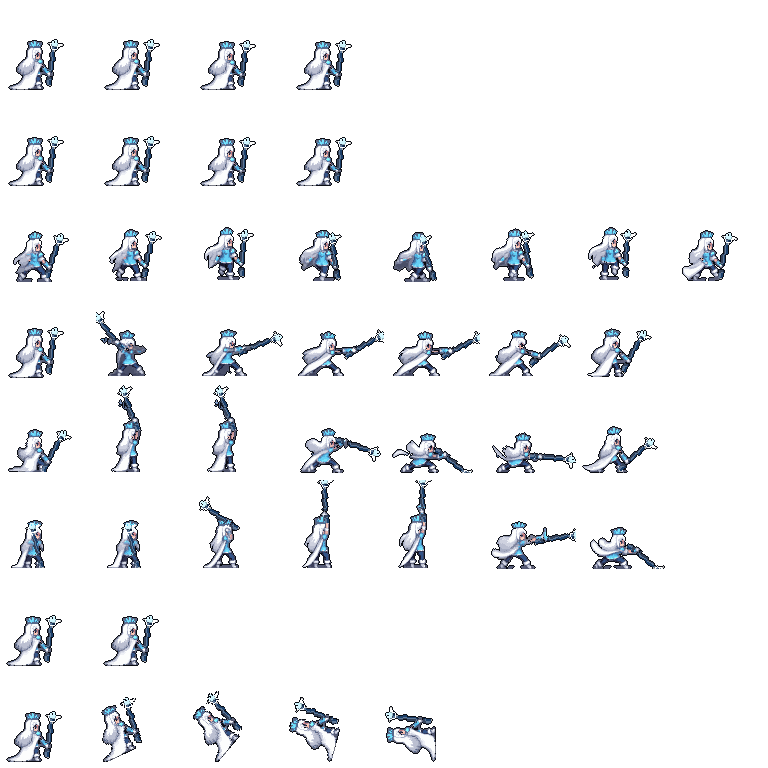
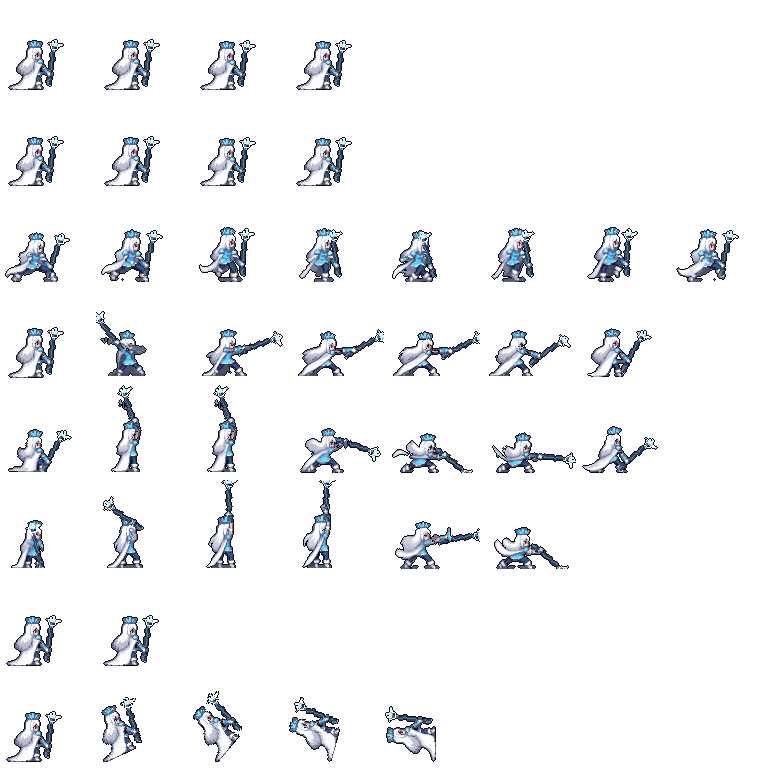
마법사 계열 3차: 걷기만 과장 관절로 재생성(usage 9, 누계 88/90), 시전 시작 정지 프레임 정리, 시트 재조립

diff --git a/src/sprites/meta.js b/src/sprites/meta.js
@@ -3,7 +3,7 @@
 const SHEET_META = {
   arbalest: {"w":96,"h":96,"foot":[42,86],"anims":{"idle":{"row":0,"frames":4,"fps":6,"loop":true},"guard":{"row":1,"frames":4,"fps":8,"loop":true},"walk":{"row":2,"frames":8,"fps":10,"loop":true},"atkA":{"row":3,"frames":6,"fps":14,"loop":false,"hit":3},"atkB":{"row":4,"frames":6,"fps":14,"loop":false,"hit":3},"cast":{"row":5,"frames":2,"fps":10,"loop":true,"key":"pull","val":[0,4.5]},"castUp":{"row":6,"frames":2,"fps":10,"loop":true,"key":"pull","val":[6,12]},"hurt":{"row":7,"frames":2,"fps":12,"loop":false},"death":{"row":8,"frames":5,"fps":8,"loop":false}},"pts":{"idle":[[67,60,41,40],[67,61,41,41],[67,61,41,41],[67,60,41,40]],"guard":[[67,61,41,41],[67,62,41,42],[67,62,41,42],[67,61,41,41]],"walk":[[68,66,42,39],[68,66,42,39],[68,65,42,38],[68,66,42,39],[68,67,43,39],[68,66,42,39],[68,65,42,38],[68,66,42,39]],"atkA":[[67,60,41,40],[68,60,42,40],[65,55,36,40],[63,55,34,40],[64,55,35,40],[68,60,42,40]],"atkB":[[67,60,41,40],[68,60,42,40],[65,55,36,40],[63,55,34,40],[64,55,35,40],[68,60,42,40]],"cast":[[67,60,41,40],[68,60,42,40]],"castUp":[[68,60,42,40],[65,55,36,40]],"hurt":[[65,60,39,40],[66,60,40,40]],"death":[[66,60,40,40],[54,52,33,42],[46,70,28,41],[40,68,16,47],[39,72,13,48]]},"v":"38ca4e71"},
   arcaneArcher: {"w":96,"h":96,"foot":[42,86],"anims":{"idle":{"row":0,"frames":4,"fps":6,"loop":true},"guard":{"row":1,"frames":4,"fps":8,"loop":true},"walk":{"row":2,"frames":8,"fps":10,"loop":true},"atkA":{"row":3,"frames":8,"fps":14,"loop":false,"hit":5},"atkB":{"row":4,"frames":8,"fps":14,"loop":false,"hit":5},"cast":{"row":5,"frames":4,"fps":10,"loop":true,"key":"pull","val":[0,4.5,7.5,12]},"castUp":{"row":6,"frames":2,"fps":10,"loop":true,"key":"pull","val":[6,12]},"hurt":{"row":7,"frames":2,"fps":12,"loop":false},"death":{"row":8,"frames":5,"fps":8,"loop":false}},"pts":{"idle":[[62,57,53,37],[62,58,53,38],[62,58,53,38],[62,57,53,37]],"guard":[[62,58,53,38],[62,59,53,39],[62,59,53,39],[62,58,53,38]],"walk":[[60,67,41,40],[61,64,41,39],[61,63,41,38],[62,66,40,38],[63,67,41,40],[62,66,41,39],[61,66,41,38],[62,66,40,38]],"atkA":[[62,57,53,37],[62,57,53,37],[58,57,50,37],[57,61,47,37],[57,61,47,37],[60,54,37,40],[60,54,37,40],[62,57,53,37]],"atkB":[[58,60,38,32],[58,60,38,32],[57,59,35,33],[56,62,33,33],[56,58,32,33],[57,58,34,31],[58,61,37,34],[58,61,37,34]],"cast":[[62,57,53,37],[62,57,53,37],[58,57,50,37],[57,61,47,37]],"castUp":[[57,59,35,33],[56,58,32,33]],"hurt":[[60,57,51,37],[61,57,52,37]],"death":[[61,57,52,37],[50,61,31,35],[46,72,14,42],[40,67,12,50],[39,73,10,53]]},"v":"ba96b28f"},
-  archmage: {"w":96,"h":96,"foot":[33,88],"anims":{"idle":{"row":0,"frames":4,"fps":4,"loop":true},"guard":{"row":1,"frames":4,"fps":4,"loop":true},"walk":{"row":2,"frames":8,"fps":10,"loop":true},"atkA":{"row":3,"frames":7,"fps":16,"loop":false,"hit":3},"atkB":{"row":4,"frames":7,"fps":16,"loop":false,"hit":4},"cast":{"row":5,"frames":7,"fps":10,"loop":false,"key":"bowA","val":[-0.2,-0.2,-0.7,-1.4,-1.4,0.7,1.2]},"hurt":{"row":6,"frames":2,"fps":12,"loop":false},"death":{"row":7,"frames":5,"fps":8,"loop":false}},"pts":{"idle":[[60,38,34,42],[60,38,34,42],[60,39,34,43],[60,39,34,43]],"guard":[[60,39,34,43],[60,39,34,43],[60,40,34,44],[60,40,34,44]],"walk":[[66,41,34,44],[62,38,39,42],[57,36,37,39],[47,39,44,39],[41,41,43,39],[48,38,45,38],[56,36,34,39],[62,39,31,42]],"atkA":[[60,38,34,42],[0,30,18,44],[94,49,33,43],[95,61,39,46],[95,64,39,46],[95,64,37,45],[76,40,35,43]],"atkB":[[69,46,32,46],[58,3,44,23],[12,10,30,32],[95,66,38,45],[94,92,50,56],[91,95,48,54],[83,55,36,46]],"cast":[[42,40,42,39],[41,39,41,38],[27,11,31,10],[60,3,44,23],[43,0,41,0],[95,52,37,44],[93,93,52,55]],"hurt":[[58,38,32,42],[59,38,33,42]],"death":[[58,38,32,42],[58,38,16,42],[58,38,19,26],[58,38,21,40],[58,38,31,45]]},"v":"274ff0f2"},
+  archmage: {"w":96,"h":96,"foot":[33,88],"anims":{"idle":{"row":0,"frames":4,"fps":4,"loop":true},"guard":{"row":1,"frames":4,"fps":4,"loop":true},"walk":{"row":2,"frames":8,"fps":10,"loop":true},"atkA":{"row":3,"frames":7,"fps":16,"loop":false,"hit":3},"atkB":{"row":4,"frames":7,"fps":16,"loop":false,"hit":4},"cast":{"row":5,"frames":7,"fps":10,"loop":false,"key":"bowA","val":[-0.2,-0.2,-0.7,-1.4,-1.4,0.7,1.2]},"hurt":{"row":6,"frames":2,"fps":12,"loop":false},"death":{"row":7,"frames":5,"fps":8,"loop":false}},"pts":{"idle":[[60,38,34,42],[60,38,34,42],[60,39,34,43],[60,39,34,43]],"guard":[[60,39,34,43],[60,39,34,43],[60,40,34,44],[60,40,34,44]],"walk":[[67,41,33,44],[63,39,57,42],[58,36,38,40],[48,37,44,38],[42,38,43,36],[50,36,46,37],[57,37,33,40],[63,39,33,42]],"atkA":[[60,38,34,42],[0,30,18,44],[94,49,33,43],[95,61,39,46],[95,64,39,46],[95,64,37,45],[76,40,35,43]],"atkB":[[69,46,32,46],[58,3,44,23],[12,10,30,32],[95,66,38,45],[94,92,50,56],[91,95,48,54],[83,55,36,46]],"cast":[[42,40,42,39],[41,39,41,38],[27,11,31,10],[60,3,44,23],[43,0,41,0],[95,52,37,44],[93,93,52,55]],"hurt":[[58,38,32,42],[59,38,33,42]],"death":[[58,38,32,42],[58,38,16,42],[58,38,19,26],[58,38,21,40],[58,38,31,45]]},"v":"6f0abe7a"},
   archon: {"w":96,"h":96,"foot":[48,91],"anims":{"idle":{"row":0,"frames":4,"fps":6,"loop":true},"guard":{"row":1,"frames":4,"fps":8,"loop":true},"walk":{"row":2,"frames":6,"fps":10,"loop":true},"atkA":{"row":3,"frames":4,"fps":14,"loop":false,"hit":2},"atkB":{"row":4,"frames":4,"fps":14,"loop":false,"hit":2},"cast":{"row":5,"frames":6,"fps":8,"loop":true,"key":"wa","val":[-2.618,-1.745,-1.047,-0.436,0.175,0.698]},"hurt":{"row":6,"frames":2,"fps":12,"loop":false},"death":{"row":7,"frames":5,"fps":8,"loop":false}},"pts":{"idle":[[57,82,47,49],[57,82,47,48],[57,81,47,48],[57,81,47,49]],"guard":[[57,83,47,50],[57,83,47,49],[57,82,47,49],[57,82,47,50]],"walk":[[55,81,49,48],[55,82,49,49],[54,82,49,49],[53,81,47,48],[51,81,47,48],[51,82,47,48]],"atkA":[[57,81,47,49],[40,67,33,42],[62,77,49,49],[55,82,47,50]],"atkB":[[57,81,47,49],[34,75,45,49],[62,77,49,49],[62,77,49,49]],"cast":[[34,75,45,49],[40,67,33,42],[56,67,68,44],[62,77,49,49],[62,77,49,49],[55,82,47,50]],"hurt":[[55,82,45,49],[56,82,46,49]],"death":[[48,86,38,82],[48,86,38,82],[48,86,38,82],[48,86,38,82],[48,86,38,82]]},"v":"58303aa0"},
   blademaster: {"w":64,"h":64,"foot":[28,59],"anims":{"idle":{"row":0,"frames":2,"fps":3,"loop":true},"walk":{"row":1,"frames":4,"fps":8,"loop":true},"atkA":{"row":2,"frames":7,"fps":12,"loop":false,"hit":3},"cast":{"row":3,"frames":6,"fps":8,"loop":true},"hurt":{"row":4,"frames":2,"fps":12,"loop":false}},"pts":{"idle":[[37,35,28,14],[37,35,28,15]],"walk":[[37,35,28,14],[37,35,28,15],[37,35,28,14],[37,35,28,16]],"atkA":[[37,35,28,14],[37,35,35,13],[37,35,38,7],[37,35,33,12],[37,35,33,12],[37,35,28,15],[37,35,28,14]],"cast":[[37,35,28,14],[37,35,30,11],[37,35,35,5],[37,35,35,5],[37,35,29,14],[37,35,28,14]],"hurt":[[37,35,26,14],[37,35,27,14]]},"v":"e2fab3b9"},
   cavalier: {"w":128,"h":128,"foot":[36,112],"anims":{"idle":{"row":0,"frames":4,"fps":6,"loop":true},"guard":{"row":1,"frames":4,"fps":8,"loop":true},"walk":{"row":2,"frames":8,"fps":10,"loop":true},"atkA":{"row":3,"frames":7,"fps":14,"loop":false,"hit":2},"atkB":{"row":4,"frames":7,"fps":14,"loop":false,"hit":2},"cast":{"row":5,"frames":9,"fps":10,"loop":true,"key":"wa","val":[-1.57,-1.2,-0.8,-0.4,0,0.4,0.8,1.2,1.57],"wrap":false},"hurt":{"row":6,"frames":2,"fps":12,"loop":false},"death":{"row":7,"frames":5,"fps":8,"loop":false}},"pts":{"idle":[[51,92,46,60],[51,93,46,61],[51,93,46,61],[51,92,46,60]],"guard":[[76,91,34,64],[76,92,34,65],[76,92,34,65],[76,91,34,64]],"walk":[[51,92,46,60],[51,91,46,59],[51,90,46,58],[51,91,46,59],[51,92,46,60],[51,91,46,59],[51,90,46,58],[51,91,46,59]],"atkA":[[76,91,34,64],[71,93,33,66],[76,92,41,64],[96,91,50,65],[92,91,46,64],[86,91,41,62],[82,91,37,62]],"atkB":[[44,76,35,62],[44,104,35,61],[59,79,33,55],[69,73,68,60],[78,105,50,69],[89,95,44,64],[82,91,37,62]],"cast":[[69,73,68,60],[69,73,68,60],[71,93,33,66],[71,93,33,66],[96,91,50,65],[78,105,50,69],[78,105,50,69],[78,105,50,69],[78,105,50,69]],"hurt":[[47,89,36,56],[50,91,41,57]],"death":[[58,67,57,59],[72,66,60,63],[84,82,63,72],[89,100,64,83],[85,98,44,81]]},"v":"a9324710"},
@@ -14,7 +14,7 @@ const SHEET_META = {
   dragoon: {"w":128,"h":128,"foot":[36,112],"anims":{"idle":{"row":0,"frames":4,"fps":6,"loop":true},"guard":{"row":1,"frames":4,"fps":8,"loop":true},"walk":{"row":2,"frames":8,"fps":10,"loop":true},"atkA":{"row":3,"frames":7,"fps":14,"loop":false,"hit":2},"atkB":{"row":4,"frames":6,"fps":14,"loop":false,"hit":2},"cast":{"row":5,"frames":9,"fps":10,"loop":true,"key":"wa","val":[-1.57,-1.2,-0.8,-0.4,0,0.4,0.8,1.2,1.57],"wrap":false},"hurt":{"row":6,"frames":2,"fps":12,"loop":false},"death":{"row":7,"frames":5,"fps":8,"loop":false}},"pts":{"idle":[[62,94,53,57],[62,94,53,58],[62,94,53,58],[62,94,53,57]],"guard":[[84,87,32,70],[84,88,32,71],[84,88,32,71],[84,87,32,70]],"walk":[[62,94,53,57],[53,60,51,56],[49,95,31,57],[50,64,47,57],[49,96,46,58],[50,63,48,57],[52,60,50,56],[53,59,51,56]],"atkA":[[84,87,32,70],[80,87,29,73],[93,85,36,70],[103,84,45,72],[99,84,40,71],[93,86,36,69],[90,84,33,69]],"atkB":[[68,58,66,56],[68,49,66,47],[70,104,47,56],[72,105,46,76],[95,92,38,71],[91,86,34,69]],"cast":[[68,49,66,47],[68,49,66,47],[68,49,66,47],[68,58,66,56],[95,92,38,71],[95,92,38,71],[72,105,46,76],[70,104,47,56],[70,104,47,56]],"hurt":[[58,88,42,52],[61,91,48,54]],"death":[[67,60,63,58],[80,68,49,64],[92,86,53,68],[93,103,42,68],[78,94,48,70]]},"v":"34231d57"},
   electromancer: {"w":96,"h":96,"foot":[33,88],"anims":{"idle":{"row":0,"frames":4,"fps":4,"loop":true},"guard":{"row":1,"frames":4,"fps":4,"loop":true},"walk":{"row":2,"frames":8,"fps":10,"loop":true},"atkA":{"row":3,"frames":7,"fps":16,"loop":false,"hit":3},"atkB":{"row":4,"frames":7,"fps":16,"loop":false,"hit":4},"cast":{"row":5,"frames":7,"fps":10,"loop":false,"key":"bowA","val":[-0.2,-0.2,-0.7,-1.4,-1.4,0.7,1.2]},"hurt":{"row":6,"frames":2,"fps":12,"loop":false},"death":{"row":7,"frames":5,"fps":8,"loop":false}},"pts":{"idle":[[49,40,34,40],[49,40,34,40],[49,41,34,41],[49,41,34,41]],"guard":[[49,41,34,41],[49,41,34,41],[49,42,34,42],[49,42,34,42]],"walk":[[62,44,35,40],[58,42,39,38],[54,40,37,37],[45,42,31,38],[39,43,31,39],[46,42,35,38],[53,40,31,36],[59,42,28,44]],"atkA":[[49,40,34,40],[0,32,13,42],[86,49,33,41],[95,77,38,43],[95,69,39,46],[91,71,34,42],[69,45,32,40]],"atkB":[[64,50,30,45],[36,4,36,3],[11,9,19,9],[78,79,37,46],[88,88,49,50],[86,92,49,50],[79,59,35,43]],"cast":[[39,44,30,40],[37,43,30,39],[26,12,31,11],[38,0,38,0],[40,0,38,0],[95,54,35,42],[86,91,48,49]],"hurt":[[47,40,32,40],[48,40,33,40]],"death":[[47,40,32,40],[47,40,28,35],[47,40,28,56],[47,40,22,56],[47,40,26,61]]},"v":"c893991a"},
   fighter: {"w":64,"h":64,"foot":[32,58],"anims":{"idle":{"row":0,"frames":4,"fps":6,"loop":true},"guard":{"row":1,"frames":4,"fps":8,"loop":true},"walk":{"row":2,"frames":6,"fps":10,"loop":true},"dash":{"row":3,"frames":2,"fps":12,"loop":true},"atkA":{"row":4,"frames":4,"fps":14,"loop":false,"hit":1},"atkB":{"row":5,"frames":4,"fps":14,"loop":false,"hit":1},"charge":{"row":6,"frames":4,"fps":10,"loop":true},"release":{"row":7,"frames":3,"fps":12,"loop":false,"hit":1},"hurt":{"row":8,"frames":2,"fps":12,"loop":false},"death":{"row":9,"frames":5,"fps":8,"loop":false},"sit":{"row":10,"frames":2,"fps":2,"loop":true}},"pts":{"idle":[[41,35,35,21],[39,34,33,18],[40,34,37,18],[41,44,38,19]],"guard":[[45,40,37,22],[45,41,37,23],[45,41,37,23],[45,40,37,22]],"walk":[[46,40,36,22],[46,43,40,20],[44,45,38,21],[43,28,37,22],[43,45,35,22],[45,42,37,20]],"dash":[[47,47,40,21],[40,28,35,22]],"atkA":[[49,42,41,24],[50,39,37,21],[51,40,36,22],[45,40,37,22]],"atkB":[[46,40,36,23],[53,41,43,23],[51,41,40,22],[51,42,42,24]],"charge":[[45,43,35,21],[44,46,36,21],[44,45,39,21],[44,46,38,23]],"release":[[49,42,41,24],[62,45,51,27],[53,41,43,23]],"hurt":[[46,50,35,22],[47,30,40,24]],"death":[[43,48,33,21],[45,33,43,26],[46,34,39,28],[49,51,42,34],[49,45,45,39]],"sit":[[38,33,31,27],[38,34,31,28]]},"v":"f7aa33a6"},
-  frostlord: {"w":96,"h":96,"foot":[33,89],"anims":{"idle":{"row":0,"frames":4,"fps":4,"loop":true},"guard":{"row":1,"frames":4,"fps":4,"loop":true},"walk":{"row":2,"frames":8,"fps":10,"loop":true},"atkA":{"row":3,"frames":7,"fps":16,"loop":false,"hit":3},"atkB":{"row":4,"frames":7,"fps":16,"loop":false,"hit":4},"cast":{"row":5,"frames":7,"fps":10,"loop":false,"key":"bowA","val":[-0.2,-0.2,-0.7,-1.4,-1.4,0.7,1.2]},"hurt":{"row":6,"frames":2,"fps":12,"loop":false},"death":{"row":7,"frames":5,"fps":8,"loop":false}},"pts":{"idle":[[55,39,29,41],[55,39,29,41],[55,40,29,42],[55,40,29,42]],"guard":[[55,40,29,42],[55,40,29,42],[55,41,29,43],[55,41,29,43]],"walk":[[61,42,34,39],[57,40,34,37],[52,38,34,35],[43,41,35,38],[37,43,34,40],[44,39,35,36],[51,38,34,35],[57,41,34,38]],"atkA":[[55,39,29,41],[0,27,31,42],[89,48,36,41],[95,46,37,44],[95,48,37,44],[86,49,34,43],[69,43,35,40]],"atkB":[[64,47,31,46],[26,3,27,1],[26,3,27,1],[90,70,37,45],[87,94,45,50],[94,75,39,49],[77,55,36,42]],"cast":[[31,43,31,41],[31,43,31,41],[8,22,20,29],[36,0,32,0],[38,0,33,0],[95,54,38,41],[86,93,45,47]],"hurt":[[53,39,27,41],[54,39,28,41]],"death":[[53,39,27,41],[53,39,13,34],[53,39,25,19],[53,39,33,40],[53,39,41,45]]},"v":"58ac5bbe"},
+  frostlord: {"w":96,"h":96,"foot":[33,89],"anims":{"idle":{"row":0,"frames":4,"fps":4,"loop":true},"guard":{"row":1,"frames":4,"fps":4,"loop":true},"walk":{"row":2,"frames":8,"fps":10,"loop":true},"atkA":{"row":3,"frames":7,"fps":16,"loop":false,"hit":3},"atkB":{"row":4,"frames":7,"fps":16,"loop":false,"hit":4},"cast":{"row":5,"frames":6,"fps":9,"loop":false,"key":"bowA","val":[-0.2,-0.7,-1.4,-1.4,0.7,1.2]},"hurt":{"row":6,"frames":2,"fps":12,"loop":false},"death":{"row":7,"frames":5,"fps":8,"loop":false}},"pts":{"idle":[[55,39,29,41],[55,39,29,41],[55,40,29,42],[55,40,29,42]],"guard":[[55,40,29,42],[55,40,29,42],[55,41,29,43],[55,41,29,43]],"walk":[[62,42,36,40],[59,39,39,39],[54,37,34,35],[44,38,36,36],[38,40,36,38],[45,38,35,36],[52,37,34,35],[59,39,27,47]],"atkA":[[55,39,29,41],[0,27,31,42],[89,48,36,41],[95,46,37,44],[95,48,37,44],[86,49,34,43],[69,43,35,40]],"atkB":[[64,47,31,46],[26,3,27,1],[26,3,27,1],[90,70,37,45],[87,94,45,50],[94,75,39,49],[77,55,36,42]],"cast":[[31,43,31,41],[8,22,20,29],[36,0,32,0],[38,0,33,0],[95,54,38,41],[86,93,45,47]],"hurt":[[53,39,27,41],[54,39,28,41]],"death":[[53,39,27,41],[53,39,13,34],[53,39,25,19],[53,39,33,40],[53,39,41,45]]},"v":"94d47a83"},
   grandmaster: {"w":64,"h":64,"foot":[32,58],"anims":{"idle":{"row":0,"frames":4,"fps":6,"loop":true},"guard":{"row":1,"frames":4,"fps":8,"loop":true},"walk":{"row":2,"frames":6,"fps":10,"loop":true},"dash":{"row":3,"frames":2,"fps":12,"loop":true},"atkA":{"row":4,"frames":4,"fps":14,"loop":false,"hit":1},"atkB":{"row":5,"frames":4,"fps":14,"loop":false,"hit":1},"charge":{"row":6,"frames":4,"fps":10,"loop":true},"release":{"row":7,"frames":3,"fps":12,"loop":false,"hit":1},"skillA":{"row":8,"frames":4,"fps":14,"loop":false,"hit":2},"skillB":{"row":9,"frames":4,"fps":14,"loop":true,"hit":0},"awaken":{"row":10,"frames":6,"fps":10,"loop":false},"hurt":{"row":11,"frames":2,"fps":12,"loop":false},"death":{"row":12,"frames":5,"fps":8,"loop":false},"sit":{"row":13,"frames":2,"fps":2,"loop":true}},"pts":{"idle":[[44,40,34,25],[44,41,34,26],[44,41,34,26],[44,40,34,25]],"guard":[[47,39,33,25],[47,40,33,26],[47,40,33,26],[47,39,33,25]],"walk":[[42,42,32,24],[44,44,32,22],[40,41,30,20],[38,42,30,21],[38,42,29,21],[40,50,30,22]],"dash":[[37,38,26,27],[50,43,40,27]],"atkA":[[45,46,33,25],[46,44,31,21],[46,44,31,21],[47,39,33,25]],"atkB":[[42,35,34,25],[57,39,35,24],[57,39,35,24],[47,39,33,25]],"charge":[[45,46,33,25],[42,35,34,25],[42,34,35,26],[42,35,34,25]],"release":[[42,34,35,26],[46,44,31,21],[46,44,31,21]],"skillA":[[42,35,34,25],[57,39,35,24],[58,39,36,24],[58,39,36,24]],"skillB":[[49,36,34,21],[49,37,34,22],[49,37,34,22],[49,36,34,21]],"awaken":[[42,35,34,25],[45,46,33,25],[42,39,33,21],[42,40,33,22],[42,39,33,21],[47,39,33,25]],"hurt":[[44,43,32,23],[37,43,25,23]],"death":[[43,40,35,24],[45,34,37,25],[45,40,37,27],[50,46,38,36],[49,49,40,41]],"sit":[[46,49,33,21],[46,50,33,22]]},"v":"1bb3225a"},
   greatswordsman: {"w":64,"h":64,"foot":[28,59],"anims":{"idle":{"row":0,"frames":2,"fps":3,"loop":true},"walk":{"row":1,"frames":4,"fps":8,"loop":true},"atkA":{"row":2,"frames":7,"fps":12,"loop":false,"hit":3},"cast":{"row":3,"frames":6,"fps":8,"loop":true},"hurt":{"row":4,"frames":2,"fps":12,"loop":false}},"pts":{"idle":[[37,35,35,14],[37,35,35,15]],"walk":[[37,35,35,14],[37,35,35,15],[37,35,35,14],[37,35,35,16]],"atkA":[[37,35,35,14],[37,35,25,13],[37,35,24,8],[37,35,35,11],[37,35,35,11],[37,35,35,15],[37,35,35,14]],"cast":[[37,35,35,14],[37,35,31,9],[37,35,43,6],[37,35,43,6],[37,35,30,14],[37,35,35,14]],"hurt":[[37,35,33,14],[37,35,34,14]]},"v":"a4044480"},
   halberdier: {"w":128,"h":128,"foot":[66,112],"anims":{"idle":{"row":0,"frames":4,"fps":6,"loop":true},"guard":{"row":1,"frames":4,"fps":8,"loop":true},"walk":{"row":2,"frames":8,"fps":10,"loop":true},"atkA":{"row":3,"frames":7,"fps":14,"loop":false,"hit":2},"atkB":{"row":4,"frames":6,"fps":14,"loop":false,"hit":2},"cast":{"row":5,"frames":8,"fps":10,"loop":true,"key":"wa","val":[-3.14,-2.36,-1.57,-0.79,0,0.79,1.57,2.36],"wrap":true},"hurt":{"row":6,"frames":2,"fps":12,"loop":false},"death":{"row":7,"frames":5,"fps":8,"loop":false}},"pts":{"idle":[[94,71,84,60],[94,72,84,61],[94,72,84,61],[94,71,84,60]],"guard":[[85,96,66,68],[85,96,66,69],[85,96,66,69],[85,96,66,68]],"walk":[[94,71,84,60],[95,70,84,59],[95,69,84,58],[95,70,84,59],[94,72,84,60],[95,70,84,59],[95,69,84,58],[95,70,84,59]],"atkA":[[85,96,66,68],[85,100,65,71],[106,74,67,66],[116,88,80,69],[116,105,75,75],[107,89,73,68],[105,93,70,67]],"atkB":[[84,105,65,67],[85,101,65,66],[99,96,82,74],[112,105,83,75],[120,83,76,70],[115,85,70,67]],"cast":[[85,96,66,68],[84,105,65,67],[84,105,65,67],[120,83,76,70],[106,74,67,66],[116,105,75,75],[116,105,75,75],[85,100,65,71]],"hurt":[[87,67,74,55],[91,68,79,57]],"death":[[103,74,94,61],[113,81,87,66],[119,94,96,72],[121,104,88,82],[110,100,89,87]]},"v":"19944184"},
@@ -33,7 +33,7 @@ const SHEET_META = {
   swordsaint: {"w":96,"h":96,"foot":[48,91],"anims":{"idle":{"row":0,"frames":4,"fps":6,"loop":true},"guard":{"row":1,"frames":4,"fps":8,"loop":true},"walk":{"row":2,"frames":6,"fps":10,"loop":true},"atkA":{"row":3,"frames":4,"fps":14,"loop":false,"hit":2},"atkB":{"row":4,"frames":4,"fps":14,"loop":false,"hit":2},"cast":{"row":5,"frames":6,"fps":8,"loop":true,"key":"wa","val":[-2.618,-1.745,-1.047,-0.436,0.175,0.698]},"hurt":{"row":6,"frames":2,"fps":12,"loop":false},"death":{"row":7,"frames":5,"fps":8,"loop":false}},"pts":{"idle":[[57,82,47,54],[57,82,47,53],[57,81,47,52],[57,81,47,54]],"guard":[[57,83,47,55],[57,83,47,54],[57,82,47,53],[57,82,47,55]],"walk":[[55,81,49,54],[55,82,50,55],[54,82,50,56],[53,81,48,55],[51,81,48,54],[51,82,48,54]],"atkA":[[59,79,48,55],[53,70,63,50],[57,76,49,55],[55,85,49,55]],"atkB":[[59,79,48,55],[42,70,64,50],[56,72,48,55],[53,83,48,55]],"cast":[[34,76,47,55],[42,70,36,49],[54,70,64,50],[57,72,49,55],[57,76,49,55],[55,85,49,55]],"hurt":[[55,82,45,54],[56,82,46,54]],"death":[[48,86,38,82],[48,86,38,82],[48,86,38,82],[48,86,38,82],[48,86,38,82]]},"v":"a95ef063"},
   swordsman: {"w":64,"h":64,"foot":[28,59],"anims":{"idle":{"row":0,"frames":2,"fps":3,"loop":true},"walk":{"row":1,"frames":4,"fps":8,"loop":true},"atkA":{"row":2,"frames":7,"fps":12,"loop":false,"hit":3},"cast":{"row":3,"frames":6,"fps":8,"loop":true},"hurt":{"row":4,"frames":2,"fps":12,"loop":false}},"pts":{"idle":[[37,35,31,16],[37,35,31,17]],"walk":[[37,35,30,16],[37,35,30,13],[37,35,29,15],[37,35,30,13]],"atkA":[[37,35,31,16],[37,35,29,17],[37,35,42,7],[37,35,35,16],[37,35,35,16],[37,35,31,17],[37,35,31,16]],"cast":[[37,35,31,16],[37,35,41,7],[37,35,44,6],[37,35,44,6],[37,35,24,16],[37,35,31,16]],"hurt":[[37,35,29,16],[37,35,30,16]]},"v":"1deb230b"},
   tempest: {"w":64,"h":64,"foot":[32,58],"anims":{"idle":{"row":0,"frames":4,"fps":6,"loop":true},"guard":{"row":1,"frames":4,"fps":8,"loop":true},"walk":{"row":2,"frames":6,"fps":10,"loop":true},"dash":{"row":3,"frames":2,"fps":12,"loop":true},"atkA":{"row":4,"frames":4,"fps":14,"loop":false,"hit":1},"atkB":{"row":5,"frames":4,"fps":14,"loop":false,"hit":1},"charge":{"row":6,"frames":4,"fps":10,"loop":true},"release":{"row":7,"frames":3,"fps":12,"loop":false,"hit":1},"skillA":{"row":8,"frames":4,"fps":14,"loop":false,"hit":2},"skillB":{"row":9,"frames":4,"fps":14,"loop":true,"hit":1},"awaken":{"row":10,"frames":6,"fps":10,"loop":false},"hurt":{"row":11,"frames":2,"fps":12,"loop":false},"death":{"row":12,"frames":5,"fps":8,"loop":false},"sit":{"row":13,"frames":2,"fps":2,"loop":true}},"pts":{"idle":[[46,45,27,20],[46,45,27,21],[46,45,27,21],[46,45,27,20]],"guard":[[47,46,27,20],[47,46,27,21],[47,46,27,21],[47,46,27,20]],"walk":[[45,47,26,19],[43,47,27,20],[43,35,27,20],[42,34,27,20],[42,35,27,20],[43,45,27,19]],"dash":[[35,29,20,19],[39,30,24,19]],"atkA":[[47,46,27,20],[58,25,19,11],[58,25,19,11],[47,46,27,20]],"atkB":[[45,48,27,20],[62,28,21,9],[62,28,21,9],[47,46,27,20]],"charge":[[45,46,27,20],[38,51,21,20],[33,40,17,21],[34,41,18,21]],"release":[[38,51,21,20],[56,39,31,20],[56,39,31,20]],"skillA":[[34,57,17,21],[57,26,29,12],[57,22,29,8],[57,27,29,13]],"skillB":[[57,29,25,16],[62,28,21,9],[57,29,25,16],[62,28,21,9]],"awaken":[[34,41,18,21],[45,46,27,20],[53,34,27,17],[53,35,27,18],[53,34,27,17],[47,46,27,20]],"hurt":[[46,46,23,7],[44,43,8,18]],"death":[[48,43,31,20],[49,38,34,21],[49,32,34,21],[52,49,33,31],[51,47,37,37]],"sit":[[38,40,24,20],[38,40,23,21]]},"v":"1d7b7083"},
-  thunderEmperor: {"w":96,"h":96,"foot":[33,88],"anims":{"idle":{"row":0,"frames":4,"fps":4,"loop":true},"guard":{"row":1,"frames":4,"fps":4,"loop":true},"walk":{"row":2,"frames":8,"fps":10,"loop":true},"atkA":{"row":3,"frames":7,"fps":16,"loop":false,"hit":3},"atkB":{"row":4,"frames":7,"fps":16,"loop":false,"hit":4},"cast":{"row":5,"frames":7,"fps":10,"loop":false,"key":"bowA","val":[-0.2,-0.2,-0.7,-1.4,-1.4,0.7,1.2]},"hurt":{"row":6,"frames":2,"fps":12,"loop":false},"death":{"row":7,"frames":5,"fps":8,"loop":false}},"pts":{"idle":[[55,39,31,41],[55,39,31,41],[55,40,31,42],[55,40,31,42]],"guard":[[55,40,31,42],[55,40,31,42],[55,41,31,43],[55,41,31,43]],"walk":[[61,42,33,40],[57,39,39,38],[53,37,31,35],[43,40,30,38],[37,42,30,40],[44,39,30,37],[51,37,30,35],[57,40,28,39]],"atkA":[[55,39,31,41],[0,30,26,42],[79,31,38,39],[95,61,36,43],[95,54,36,43],[89,51,32,40],[49,38,33,40]],"atkB":[[65,48,32,45],[54,6,38,29],[54,6,38,29],[90,70,40,42],[88,93,45,47],[82,95,38,47],[77,55,32,43]],"cast":[[18,41,27,39],[23,41,27,39],[23,41,27,39],[54,6,38,29],[54,6,38,29],[95,70,32,39],[86,93,47,50]],"hurt":[[53,39,29,41],[54,39,30,41]],"death":[[53,39,29,41],[53,39,17,38],[53,39,21,26],[53,39,27,43],[53,39,37,48]]},"v":"d1361260"},
+  thunderEmperor: {"w":96,"h":96,"foot":[33,88],"anims":{"idle":{"row":0,"frames":4,"fps":4,"loop":true},"guard":{"row":1,"frames":4,"fps":4,"loop":true},"walk":{"row":2,"frames":8,"fps":10,"loop":true},"atkA":{"row":3,"frames":7,"fps":16,"loop":false,"hit":3},"atkB":{"row":4,"frames":7,"fps":16,"loop":false,"hit":4},"cast":{"row":5,"frames":5,"fps":7,"loop":false,"key":"bowA","val":[-0.2,-1.4,-1.4,0.7,1.2]},"hurt":{"row":6,"frames":2,"fps":12,"loop":false},"death":{"row":7,"frames":5,"fps":8,"loop":false}},"pts":{"idle":[[55,39,31,41],[55,39,31,41],[55,40,31,42],[55,40,31,42]],"guard":[[55,40,31,42],[55,40,31,42],[55,41,31,43],[55,41,31,43]],"walk":[[62,42,34,42],[59,36,30,36],[54,36,39,37],[44,37,32,37],[37,37,39,36],[45,37,41,37],[53,36,31,36],[59,38,24,55]],"atkA":[[55,39,31,41],[0,30,26,42],[79,31,38,39],[95,61,36,43],[95,54,36,43],[89,51,32,40],[49,38,33,40]],"atkB":[[65,48,32,45],[54,6,38,29],[54,6,38,29],[90,70,40,42],[88,93,45,47],[82,95,38,47],[77,55,32,43]],"cast":[[18,41,27,39],[54,6,38,29],[54,6,38,29],[95,70,32,39],[86,93,47,50]],"hurt":[[53,39,29,41],[54,39,30,41]],"death":[[53,39,29,41],[53,39,17,38],[53,39,21,26],[53,39,27,43],[53,39,37,48]]},"v":"30563f75"},
   tyrant: {"w":128,"h":128,"foot":[64,123],"anims":{"idle":{"row":0,"frames":4,"fps":6,"loop":true},"guard":{"row":1,"frames":4,"fps":8,"loop":true},"walk":{"row":2,"frames":6,"fps":10,"loop":true},"atkA":{"row":3,"frames":4,"fps":14,"loop":false,"hit":2},"atkB":{"row":4,"frames":4,"fps":14,"loop":false,"hit":2},"cast":{"row":5,"frames":6,"fps":8,"loop":true,"key":"wa","val":[-2.618,-1.745,-1.047,-0.436,0.175,0.698]},"hurt":{"row":6,"frames":2,"fps":12,"loop":false},"death":{"row":7,"frames":5,"fps":8,"loop":false}},"pts":{"idle":[[73,114,94,77],[73,114,94,77],[73,113,94,76],[73,113,94,76]],"guard":[[73,115,94,78],[73,115,94,78],[73,114,94,77],[73,114,94,77]],"walk":[[71,113,57,85],[71,114,57,86],[70,114,57,86],[69,113,55,85],[67,113,56,85],[67,114,56,85]],"atkA":[[73,113,94,76],[56,99,58,55],[72,104,56,84],[69,115,56,84]],"atkB":[[73,113,94,76],[50,107,53,86],[74,111,56,86],[74,111,56,86]],"cast":[[50,107,16,81],[56,99,46,56],[72,99,93,62],[74,111,56,86],[74,111,56,86],[69,115,56,84]],"hurt":[[71,114,92,77],[72,114,93,77]],"death":[[64,118,54,114],[64,118,54,114],[64,118,54,114],[64,118,54,114],[64,118,54,114]]},"v":"b1bf88b9"},
   voidArcher: {"w":96,"h":96,"foot":[42,86],"anims":{"idle":{"row":0,"frames":4,"fps":6,"loop":true},"guard":{"row":1,"frames":4,"fps":8,"loop":true},"walk":{"row":2,"frames":8,"fps":10,"loop":true},"atkA":{"row":3,"frames":8,"fps":14,"loop":false,"hit":5},"atkB":{"row":4,"frames":8,"fps":14,"loop":false,"hit":5},"cast":{"row":5,"frames":4,"fps":10,"loop":true,"key":"pull","val":[0,4.5,7.5,12]},"castUp":{"row":6,"frames":2,"fps":10,"loop":true,"key":"pull","val":[6,12]},"hurt":{"row":7,"frames":2,"fps":12,"loop":false},"death":{"row":8,"frames":5,"fps":8,"loop":false}},"pts":{"idle":[[62,55,47,36],[62,56,47,37],[62,56,47,37],[62,55,47,36]],"guard":[[62,56,47,37],[62,57,47,38],[62,57,47,38],[62,56,47,37]],"walk":[[58,68,48,37],[60,64,48,36],[60,63,48,35],[60,64,48,36],[52,52,48,37],[61,68,48,36],[62,66,48,35],[63,66,48,36]],"atkA":[[62,55,47,36],[61,59,45,37],[59,62,43,37],[57,60,42,37],[57,60,43,37],[59,60,44,37],[59,60,44,37],[62,55,47,36]],"atkB":[[62,55,47,36],[61,59,45,37],[59,62,43,37],[57,60,42,37],[57,60,43,37],[59,60,44,37],[59,60,44,37],[62,55,47,36]],"cast":[[62,55,47,36],[61,59,45,37],[59,62,43,37],[57,60,43,37]],"castUp":[[59,62,43,37],[57,60,43,37]],"hurt":[[60,55,45,36],[61,55,46,36]],"death":[[61,55,46,36],[50,61,38,36],[46,69,14,36],[40,67,8,50],[39,72,7,53]]},"v":"af43de05"},
   warlord: {"w":128,"h":128,"foot":[66,112],"anims":{"idle":{"row":0,"frames":4,"fps":6,"loop":true},"guard":{"row":1,"frames":4,"fps":8,"loop":true},"walk":{"row":2,"frames":8,"fps":10,"loop":true},"atkA":{"row":3,"frames":8,"fps":14,"loop":false,"hit":2},"atkB":{"row":4,"frames":8,"fps":14,"loop":false,"hit":2},"cast":{"row":5,"frames":7,"fps":10,"loop":true,"key":"wa","val":[-2.99,-2.4,-2.16,-2.01,-1.65,-0.11,0.01],"wrap":true},"hurt":{"row":6,"frames":2,"fps":12,"loop":false},"death":{"row":7,"frames":5,"fps":8,"loop":false}},"pts":{"idle":[[87,76,82,65],[88,75,83,63],[88,75,83,63],[87,76,82,65]],"guard":[[81,67,70,59],[81,68,70,60],[81,68,70,60],[81,67,70,59]],"walk":[[89,77,84,65],[89,78,85,66],[89,75,84,64],[89,75,84,64],[88,76,83,63],[87,79,81,64],[88,74,81,63],[89,76,83,61]],"atkA":[[81,67,70,59],[83,105,50,60],[88,93,41,76],[87,92,60,78],[101,97,69,79],[108,98,68,79],[107,100,68,78],[106,96,68,78]],"atkB":[[78,71,70,56],[81,105,56,56],[88,104,52,58],[89,104,49,58],[109,96,68,78],[108,97,68,78],[111,92,65,78],[109,95,65,78]],"cast":[[87,92,60,78],[89,104,49,58],[83,105,50,60],[81,105,56,56],[81,67,70,59],[111,92,65,78],[106,96,68,78]],"hurt":[[79,66,73,52],[84,64,78,53]],"death":[[94,68,90,56],[104,67,85,65],[114,87,86,72],[114,105,93,83],[99,98,68,86]]},"v":"9517f5f8"},

diff --git a/dev/review/sheets-mage.html b/dev/review/sheets-mage.html
@@ -39,17 +39,17 @@
   </ul>
 </div>
 
-<h2>▣5 3차 3종 — 새 디자인 + 관절 애니 (2026-10-17, PixelLab usage 28 · 계열 합계 79) <span class="wait">· 평타 합격 · 걷기 미달 (SHEET_ON 꺼 둠)</span></h2>
+<h2>▣5 3차 3종 — 새 디자인 + 관절 애니 (2026-10-17, PixelLab usage 37 · 계열 합계 88/90) <span class="wait">· 평타 3종 합격 · 시전+걷기 대마도사 합격, 빙결·뇌제 3.29 (SHEET_ON 꺼 둠, 켤지 사용자 확인)</span></h2>
 <div class="box">
   <ul>
     <li>안 B(2차 시트에 소품 붙이기)는 빙결의 군주 시험 3.43 — 실루엣 차이가 왕관뿐(색깔놀이) → 안 A. 2차 그림 img2img 시안 12장도 모두 2차 복제(rules 1) → 텍스트 생성.</li>
     <li>기준 그림: 대마도사 v5t-379 · 빙결의 군주 v5t-353 · 뇌제 v5n-353(같은 시드로 번개 바퀴만 뺌 — 바퀴·불꽃 고리는 VFX) → PixelLab 정리본(clean). 비교 <a href="sheets-mage/design5/lineup.png">lineup.png</a></li>
-    <li>관절 애니: 2차와 같은 MOVES_B · 빈손 첫 프레임 · 게임 지팡이 1.5배 덧그림. 수리(무료): 빙결의 군주 회색 철퇴 잔재 지우기(<code>skelpost.drop_grey_far</code>), 뒤돈 프레임 이웃 교체·걷기 출렁임(<code>fix3.py</code>).</li>
+    <li>관절 애니: 2차와 같은 MOVES_B · 빈손 첫 프레임 · 게임 지팡이 1.5배 덧그림. 수리(무료): 빙결의 군주 회색 철퇴 잔재 지우기(<code>skelpost.drop_grey_far</code>), 뒤돈 프레임 이웃 교체(<code>fix3.py</code>). 걷기만 과장 관절(보폭 1.5배·무릎 들기·출렁임 ±2·앞기울기)로 다시 뽑음(8f × 3, usage 9, <code>skelgen.py prep &lt;cls&gt; W</code>). 시전 시작 정지 프레임은 빼고 fps 를 낮춰 시간 유지.</li>
   </ul>
   <table><tr><th>직업</th><th>평타 A+B</th><th>시전+걷기</th></tr>
-    <tr><td>대마도사</td><td class="ok">3.57</td><td class="no">3.43 — 걷기 7~14 제자리</td></tr>
-    <tr><td>빙결의 군주</td><td class="ok">3.57 (수리 후)</td><td class="no">2.86 — 걷기 제자리 · 시전 0~1 정지</td></tr>
-    <tr><td>뇌제</td><td class="ok">3.57 (수리 후)</td><td class="no">3.14 — 걷기 제자리 · 시전 0~2 정지</td></tr></table>
+    <tr><td>대마도사</td><td class="ok">3.57</td><td class="ok">3.57 (걷기 재생성 후)</td></tr>
+    <tr><td>빙결의 군주</td><td class="ok">3.57 (수리 후)</td><td class="no">3.29 — 걷기는 읽힘, 일부 프레임 다리 뭉개짐 (2.86→3.29)</td></tr>
+    <tr><td>뇌제</td><td class="ok">3.57 (수리 후)</td><td class="no">3.29 — 걷기는 읽힘, 보폭 차이 작음 (3.14→3.29)</td></tr></table>
   <p>시험: <a href="../skills.html?sheetsOn=archmage,frostlord,thunderEmperor">dev/skills.html?sheetsOn=archmage,frostlord,thunderEmperor</a> (스킬 48시전 예외 0)</p>
   <div class="grid">
     <div class="card"><img src="sheets-mage/archmage.gif">대마도사</div>

diff --git a/dev/sheets-mage/skelgen.py b/dev/sheets-mage/skelgen.py
@@ -23,7 +23,8 @@ DESC = {
     'frostlord': 'small chibi young woman frost queen, 3 heads tall, spiky ice crystal crown, long straight white hair, long white cape behind her, ice-blue tunic, white gloves, ice-blue trousers, white fur boots, right hand empty, side view facing right the whole time, face always visible, never turns around',
     'thunderEmperor': 'small chibi young woman thunder empress, 3 heads tall, golden crown with two large golden horns, long white hair, navy cape with gold trim, navy coat with gold buttons, navy boots, right hand empty, side view facing right the whole time, face always visible, never turns around',
 }
-ACTION = {'A': 'magic staff attacks: thrust forward, then raise overhead and slam down', 'B': 'casting a spell with both hands then walking'}
+ACTION = {'A': 'magic staff attacks: thrust forward, then raise overhead and slam down', 'B': 'casting a spell with both hands then walking',
+          'W': 'walking forward with long clear strides, knees lifting, the long robe parting so both legs are clearly visible'}
 
 
 # 지팡이가 굵거나 몸에 붙어 열기로 안 갈리는 기준 그림: 64칸 그림 좌표로 지팡이 영역을 직접 지정 (격자 확대본을 보고 정함)
@@ -110,8 +111,30 @@ def b64(im):
     return {'type': 'base64', 'base64': base64.b64encode(buf.getvalue()).decode(), 'format': 'png'}
 
 
+def walk_big():
+    """걷기 과장 8f (3차 재생성, 로드맵 승인 2026-10-17): 긴 장포·망토가 다리를 가려 모델이 다리를 거의 안 움직였다 →
+    보폭(골반 기준 무릎·발 x) 1.5배, 앞으로 나가는 무릎 3칸 들기, 몸(다리 밖) 위아래 ±2 (보폭 클 때 내림), 윗몸 앞기울기 +2"""
+    out = []
+    fr = SK.MOVES_B['walk'][:8]
+    spread = [abs(p['RIGHT LEG'][0] - p['LEFT LEG'][0]) for p, a, b in fr]; lo, hi = min(spread), max(spread)
+    for (p, a, b), sp in zip(fr, spread):
+        q = dict(p); hx = (p['RIGHT HIP'][0] + p['LEFT HIP'][0]) / 2
+        for side in ('RIGHT', 'LEFT'):
+            for j in ('KNEE', 'LEG'):
+                x, y = p[f'{side} {j}']; q[f'{side} {j}'] = (hx + (x - hx) * 1.5, y)
+            if p[f'{side} KNEE'][0] > hx + 1: q[f'{side} KNEE'] = (q[f'{side} KNEE'][0], q[f'{side} KNEE'][1] - 3)
+        dy = 2 - 4 * (sp - lo) / max(1, hi - lo)          # 보폭 가장 클 때(디딤) +2... 아래, 가장 작을 때(지나감) -2 위
+        dy = -dy
+        for k in q:
+            if 'KNEE' in k or 'LEG' in k: continue
+            x, y = q[k]; q[k] = (x + (2 if k not in ('RIGHT HIP', 'LEFT HIP') else 0), y + dy)
+        out.append((q, a, b))
+    return out
+
+
 def seq(part):
     M = SK.MOVES_B
+    if part == 'W': return walk_big()
     if part == 'A': return M['atkA'][:7] + M['atkB'][:7] + [(SK.to_b(SK.pose()), -80, None)]
     return M['cast'][:7] + M['walk'][:8]
 
@@ -188,10 +211,10 @@ def post(cls, part):
         g = snap_hand(body, g, KP['RIGHT ELBOW'])                          # 모델 손이 설계보다 짧거나 어긋나면 실제 팔 끝 칸으로
         ms = model_staff(im, body, g, meta['staff_deg'][i])
         if ms and math.cos(math.radians(ms[1] - meta["staff_deg"][i])) < 0.8: ms = None     # 37° 넘게 어긋나면 이펙트를 잘못 잰 것 → 설계 각도
-        walk = part == 'B' and i >= 7
+        walk = (part == 'B' and i >= 7) or part == 'W'
         if ms and not walk: a = math.radians(ms[1])                         # 각도만 모델 지팡이 축 (팔 자세와 맞게). 걷기는 설계 각도 고정 (비평: 걷기 중 지팡이 튐)
         if part == 'A' and i == 0: a = math.radians(meta['staff_deg'][-1])  # 14→0 이음새 (비평 2026-10-17)
-        if part == 'B' and (walk or i <= 1):
+        if walk or (part == 'B' and i <= 1):
             top = body.getbbox()[1]; ty = g[1] + ltip * math.sin(a)
             if tip_off is None: tip_off = ty - top
             elif abs(math.sin(a)) > 0.5:      # 손은 그대로, 쥔 자리만 자루 따라 밀어 끝 높이를 맞춘다

diff --git a/dev/sheets-mage/build.py b/dev/sheets-mage/build.py
@@ -279,6 +279,7 @@ def build(cls, src, out, cast_vals=None):
 #  hit: 평타A 3 (끝까지 뻗은 수평 겨눔) · 평타B 4 (앞 땅에 내리꽂음) — skel.py MOVES atkA/atkB 설계
 SKEL_HIT = {'atkA': 3, 'atkB': 4}
 SKEL_CAST = [-0.2, -0.2, -0.7, -1.4, -1.4, 0.7, 1.2]          # skel.py MOVES cast 의 bowA (cast 줄 key)
+SKEL_CAST_DROP = {'frostlord': [1], 'thunderEmperor': [1, 2]}   # 3차 시전 시작 정지 프레임 (fix3 교체로 같은 그림, 비평 2026-10-17)
 
 
 def build_skel(cls, out):
@@ -292,19 +293,26 @@ def build_skel(cls, out):
          'walk': FB[7:15], 'atkA': FA[0:7], 'atkB': FA[7:14], 'cast': FB[0:7]}
     T = {'idle': [tbase, tbase, [tbase[0], tbase[1] + 1], [tbase[0], tbase[1] + 1]],
          'walk': TB[7:15], 'atkA': TA[0:7], 'atkB': TA[7:14], 'cast': TB[0:7]}
+    if os.path.exists(os.path.join(d, 'W-wpn', '7.png')):      # 걷기만 다시 뽑은 줄 (3차, 과장 걷기 8f)
+        A['walk'] = [Image.open(os.path.join(d, 'W-wpn', f'{i}.png')).convert('RGBA') for i in range(8)]; T['walk'] = json.load(open(os.path.join(d, 'W-tips.json')))
+    cast_val = list(SKEL_CAST); cast_fps = 10
+    drop = SKEL_CAST_DROP.get(cls, [])
+    if drop:      # 시전 시작의 같은 그림 프레임을 빼고, 줄 전체 시간은 그대로 (fps 를 줄인다)
+        keep = [i for i in range(len(A['cast'])) if i not in drop]
+        cast_fps = round(10 * len(keep) / len(A['cast'])); A['cast'] = [A['cast'][i] for i in keep]; T['cast'] = [T['cast'][i] for i in keep]; cast_val = [cast_val[i] for i in keep]
     A['guard'] = [bob(f, waist, 1) for f in A['idle']]; T['guard'] = [[t[0], t[1] + 1] for t in T['idle']]
     A['hurt'] = [shift(base, -2, 0), shift(base, -1, 0)]; T['hurt'] = [[tbase[0] - 2, tbase[1]], [tbase[0] - 1, tbase[1]]]
     A['death'] = [A['hurt'][0]] + [fall(A['hurt'][0], a, foot) for a in (25, 50, 75, 90)]; T['death'] = [T['hurt'][0]] * 5
     plan = dict(PLAN); plan['idle'] = dict(fps=4, loop=True); plan['guard'] = dict(fps=4, loop=True)
     plan['walk'] = dict(fps=10, loop=True); plan['atkA'] = dict(fps=16, loop=False, hit=SKEL_HIT['atkA'])
-    plan['atkB'] = dict(fps=16, loop=False, hit=SKEL_HIT['atkB']); plan['cast'] = dict(fps=10, loop=False)
+    plan['atkB'] = dict(fps=16, loop=False, hit=SKEL_HIT['atkB']); plan['cast'] = dict(fps=cast_fps, loop=False)
     n = max(len(A[k]) for k in ORDER)
     sheet = Image.new('RGBA', (N * n, N * len(ORDER)))
     meta = {'anims': {}, 'pts': {}}
     for r, k in enumerate(ORDER):
         for i, f in enumerate(A[k]): sheet.alpha_composite(f, (N * i, N * r))
         m = {'row': r, 'frames': len(A[k]), **plan[k]}
-        if k == 'cast': m['key'] = 'bowA'; m['val'] = SKEL_CAST
+        if k == 'cast': m['key'] = 'bowA'; m['val'] = cast_val
         meta['anims'][k] = m
         # hand = 지팡이 끝(칸 안으로 자름) · head = 정수리
         meta['pts'][k] = [[max(0, min(N - 1, t[0])), max(0, min(N - 1, t[1]))] + head_pt(f) for f, t in zip(A[k], T[k])]

diff --git a/docs/specs/legacy-class-sheets.md b/docs/specs/legacy-class-sheets.md
@@ -251,10 +251,11 @@
   - 나눔: 이번 달 남은 6 → 0 (시안·검수만). **다음 달 초기화분 40~48** 또는 **상한 증액 시 +40~48** (증액은 사용자 결정). 2차 4종 걷기·대검전사 평타가 끝난 뒤 시작.
 
 - 2026-10-18: 4단계 (로드맵 승인 14, 모두 usage 1.0, 계열 누적 84/90). 대검전사 평타 key3c 재편집으로 **합격** 3.71/3.57. 걷기 키 3 × 4종: **검사 합격** 3.86/3.86, 성기사·검성·대검전사 **미달**(프레임마다 무기·투구가 바뀜, 두 자세 반복) → 시트는 임시 걷기(들썩임)로 되돌림. 4종 시트 다시 조립, `?sheetsOn=` 확인. 남은 일: 걷기 3종(다음 달 초기화분, 직업당 키 3~4 — 무기를 손에 고정한 원본에서 다리만 바꾸는 편집), 성기사 평타 칼 길이·후광, SHEET_ON 켜기(사용자 결정).
+  - 걷기만 재생성 (로드맵 승인, skeleton-v3 8f × 3 = usage 9, 누계 88/90): `skelgen.py walk_big` 보폭 1.5배·앞무릎 3칸 들기·몸 ±2·윗몸 앞 +2, 설명 "long robe parting so both legs are clearly visible" → `W-wpn`, 시트 walk 줄로. 시전 시작 정지 프레임은 `build.py SKEL_CAST_DROP`(빙결 1 · 뇌제 1·2)로 빼고 fps 를 줄여 시간 유지. 재검수(sonnet): 대마도사 시전+걷기 3.57 합격 · 빙결의 군주 3.29 · 뇌제 3.29 (걷기는 1배에서 걷는 것으로 읽힘, 일부 프레임 다리 뭉개짐·보폭 차이 작음).
 
 ## 남은 일 / 미정
 - 2026-10-17 (로드맵, 레인저 교훈): skeleton-v3 는 첫 프레임이 무기를 겨눈 자세면 팔 관절을 따르지 않고 그 팔 모양을 지킨다(다리는 따름). 관절 애니 첫 프레임은 "팔 내린 중립 대기·빈손·무기 없음"으로 — 기준 그림이 무기를 든 자세면 계획서에 `edit-image-pixen` 중립 편집 1회(usage 1)를 넣는다. 첫 프레임 뼈 길이에 맞추면 팔이 짧아지니 목표 손 위치에서 관절 각도를 역산(레인저 `skelgen.py` `solve_hands` 참고).
-- 마법사 계열 3차 3종: 걷기(B 7~14)만 다시 뽑는 계획(8f × 3 = usage 9, 누계 88/90, 걷기 관절 보폭·무릎 과장) 로드맵 승인 대기. 평타는 합격.
+- 마법사 계열 3차 3종: 켤지 사용자 확인 (SHEET_ON false). 빙결의 군주·뇌제 시전+걷기 3.29 (모든 항목 3 이상, 평균 미달 — 걷기는 읽힘). 계열 PixelLab 88/90 이라 더 뽑지 않음.
 - 마법사 계열 2차 4종(켜짐): 사용자가 ▣4 를 보고 `SHEET_ON` 을 켤지 정한다 (`?sheetsOn=` 로 시험). 3차 3종은 2차 시트를 편집하는 계획서를 따로 낸다.
 - 2026-10-16 레인저 계열 보류 (로드맵 검수 요청): 덧그리기 전 PixelLab 원본(마네킹)을 몽타주로 확인 — 활 쏘기는 뒷손 시위 당김이 없고 앞팔만 조금(손 약 4도트), 석궁 쏘기는 거의 정지, 공성 쏘기만 반동이 보임, 활 하늘 쏘기는 팔을 머리 위로 치켜듦(당기기 없음), 걷기 3종은 좋음. 검사 계열과 같은 "공격 때 몸·팔이 안 움직임" 문제가 원본부터 있다. 남은 PixelLab 호출 없음(usage 12 그대로), approved.txt 비움, SHEET_ON false. 확인 `dev/bowsheets/motion.py`, 검토 0-1절.
 - 레인저 계열: 2차 4종 새 시트 켬 (2026-10-17 사용자 확인). 3차 3종 시트도 켬 (2026-10-17 사용자 확인). 다음 달 PixelLab 초기화분으로: 7종 하늘 쏘기(석궁사수·3차 포함, 지금은 쏘기로 대신), 공성포수 큰 석궁이 활처럼 보이는 점.

diff --git a/dev/sheets-mage/usage.md b/dev/sheets-mage/usage.md
@@ -33,3 +33,6 @@
 | 27 | frostlord | `/animate-with-skeleton-v3` | skelB: /animate-with-skeleton-v3 | 4.0 | 71.0 | 888.0 |
 | 28 | thunderEmperor | `/animate-with-skeleton-v3` | skelA: /animate-with-skeleton-v3 | 4.0 | 75.0 | 881.0 |
 | 29 | thunderEmperor | `/animate-with-skeleton-v3` | skelB: /animate-with-skeleton-v3 | 4.0 | 79.0 | 877.0 |
+| 30 | archmage | `/animate-with-skeleton-v3` | skelW: /animate-with-skeleton-v3 | 3.0 | 82.0 | 861.0 |
+| 31 | frostlord | `/animate-with-skeleton-v3` | skelW: /animate-with-skeleton-v3 | 3.0 | 85.0 | 857.0 |
+| 32 | thunderEmperor | `/animate-with-skeleton-v3` | skelW: /animate-with-skeleton-v3 | 3.0 | 88.0 | 854.0 |
